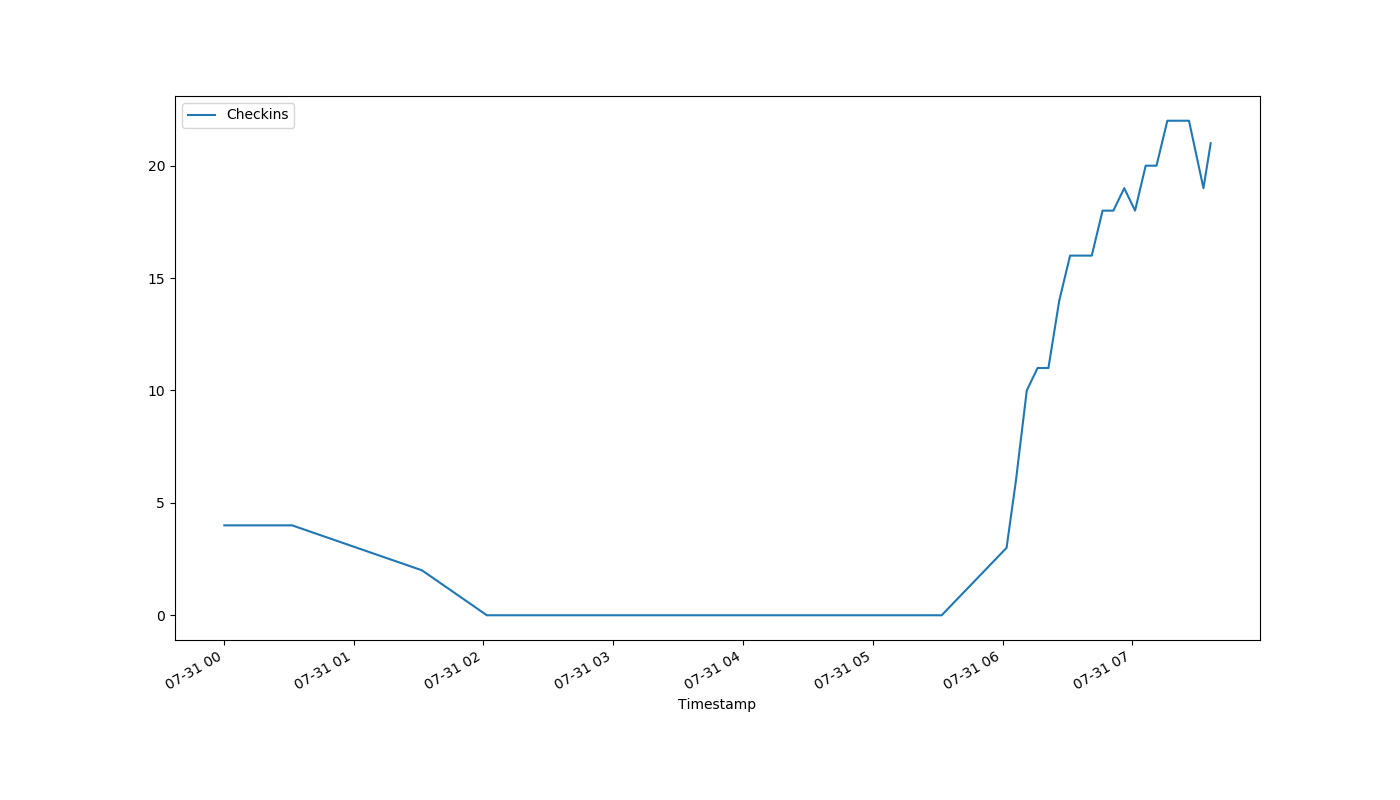
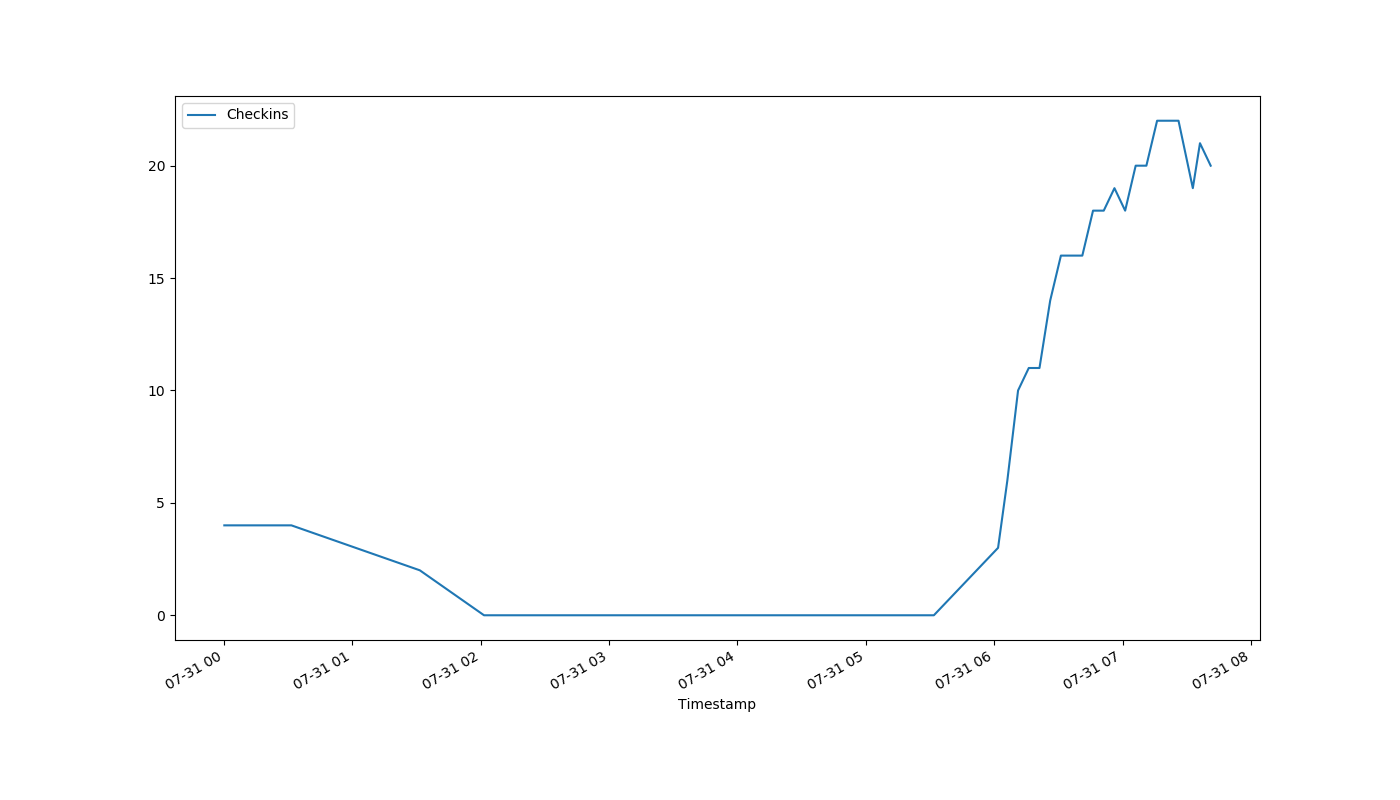
auto-Jul-31-07:43:10

diff --git a/index.html b/index.html
@@ -1,1 +1,1 @@
-<!DOCTYPE html><html><head><meta http-equiv="refresh" content="30"><link rel='stylesheet' href='holmcurrent.css'></head><body><p id='count'>21</p><div id='graph-wrap'><img id='graph' src='holmgraph-Jul-31.png'></div><p id='updated'>Last updated 07:37:05 / 07:36:10</p></body></html>
+<!DOCTYPE html><html><head><meta http-equiv="refresh" content="30"><link rel='stylesheet' href='holmcurrent.css'></head><body><p id='count'>20</p><div id='graph-wrap'><img id='graph' src='holmgraph-Jul-31.png'></div><p id='updated'>Last updated 07:42:05 / 07:41:10</p></body></html>
